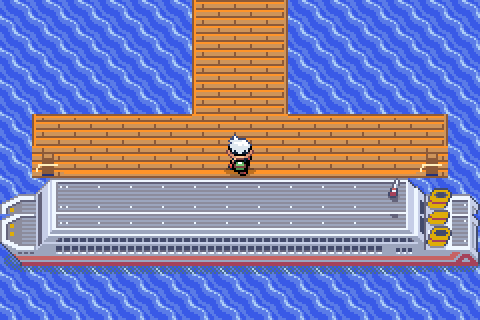
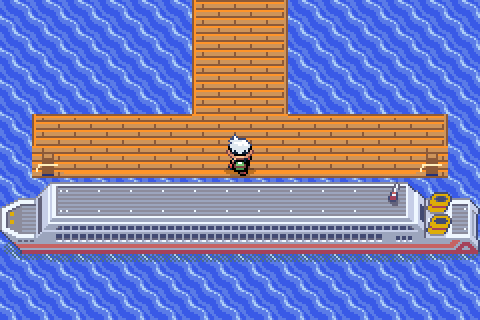
Port: fix cruise ship (no vertical stretch), longer hull only
The vertical stretch duplicated the bow, stern and a lifeboat. The ship
is now enlarged only lengthwise, repeating the window section.

Claude-Session: https://claude.ai/code/session_015nAeBdQj1XXGE9TrWVaT6H

Changed region(s): [[0.0, 0.5312, 1.0, 0.875]]

diff --git a/dev_scripts/lilycove_redesign/authentic_art.py b/dev_scripts/lilycove_redesign/authentic_art.py
@@ -45,18 +45,12 @@ def from_map(layout, width, sec, x0, y0, w, h, bg):
     return out
 
 def stretch_tidal():
-    """S.S. Tidal lengthened (window section x10) and slightly taller (deck strip repeated)."""
+    """S.S. Tidal lengthened: the window section is repeated, bow and stern untouched."""
     s = sprite('graphics/object_events/pics/misc/ss_tidal.png', 'graphics/object_events/palettes/ss_tidal.pal')
-    # taller: repeat an 8px strip of the upper deck
-    tall = Image.new('RGBA', (s.width, s.height + 8), (0, 0, 0, 0))
-    tall.paste(s.crop((0, 0, s.width, 18)), (0, 0))
-    tall.paste(s.crop((0, 10, s.width, 18)), (0, 18))
-    tall.paste(s.crop((0, 18, s.width, s.height)), (0, 26))
-    s = tall
-    parts = [s.crop((0, 0, 32, s.height))] + [s.crop((32, 0, 48, s.height))] * 10 + [s.crop((48, 0, 96, s.height))]
+    parts = [s.crop((0, 0, 32, 40))] + [s.crop((32, 0, 48, 40))] * 10 + [s.crop((48, 0, 96, 40))]
     w = sum(p.width for p in parts)
     out = Image.new('RGBA', (w, 48), (0, 0, 0, 0)); x = 0
-    for p in parts: out.paste(p, (x, 0)); x += p.width      # top-aligned: hugs the pier
+    for p in parts: out.paste(p, (x, 2)); x += p.width     # near the top: hugs the pier
     return out
 
 def slateport(x0, y0, w, h, bg=0x211):
